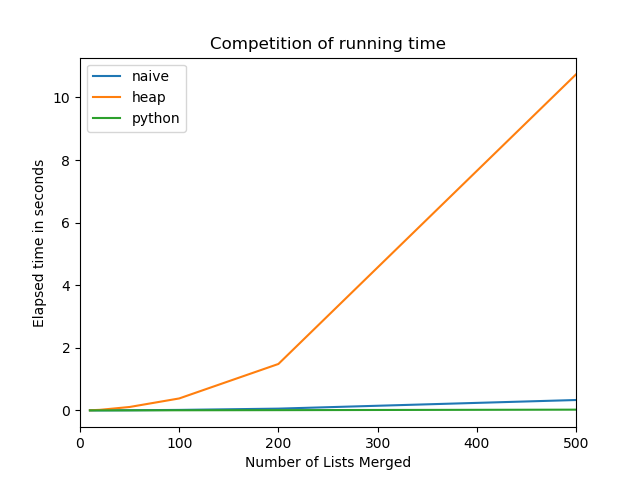
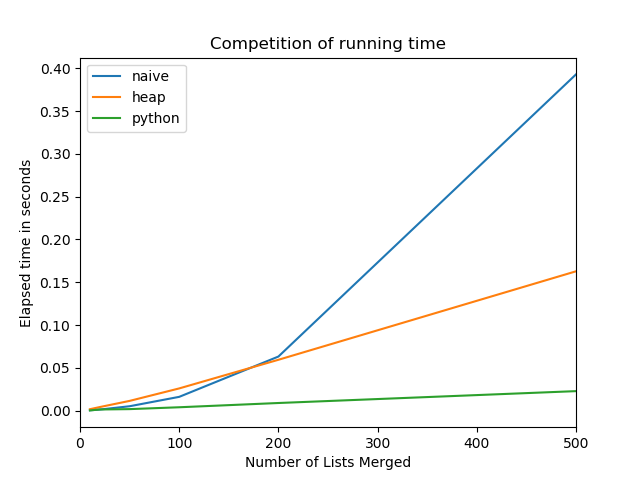
I emailed the homework changes to David two hours after the deadline (2am), and got approved just now to push it to course repo.

diff --git a/homeworks/HW6/HW6-final/P2.py b/homeworks/HW6/HW6-final/P2.py
@@ -60,16 +60,14 @@ class Heap:
         min_idx = idx
         left_idx = 2 * idx + 1
         right_idx = 2 * idx + 2
-
         if left_idx < self.size and self.compare(min_idx, left_idx):
             min_idx = left_idx
-
         if right_idx < self.size and self.compare(min_idx, right_idx):
             min_idx = right_idx
-
         if min_idx != idx:
             self.swap(idx,min_idx)
             self.heapify(min_idx)
+
 
     def build_heap(self) -> None:
         for i in range(self.size // 2, -1, -1):
@@ -78,17 +76,42 @@ class Heap:
     def heappush(self, key: int) -> None:
         self.size += 1
         self.elements += [key]
-        self.build_heap()
+        self.pushhelper(self.size-1)
+
+    def pushhelper(self, idx: int) -> None:
+      if idx > 0:
+          parent = self.parent(idx)
+          if self.compare(parent , idx):
+              self.swap(parent, idx)
+              self.pushhelper(parent)
 
     def heappop(self) -> int:
         if (len(self.elements) == 0):
             raise IndexError("Nothing to pop")
         smallest = self.elements[0]
-        #self.elements = self.elements[1 : self.size]
-        self.elements.remove(smallest)
+        self.swap(0, self.size - 1)
+        self.elements.pop()
         self.size -= 1
-        self.build_heap()
+        if self.size > 0:
+            self.pophelper(0)
         return smallest
+
+    def pophelper(self, idx: int) -> None:
+      left = self.left(idx)
+      right = self.right(idx)
+      if left < self.size:
+        if right < self.size:
+          if self.compare(right, left):
+            if self.compare(idx,left):
+              self.swap(left, idx)
+              self.pophelper(left)
+          else:
+            if self.compare(idx,left):
+              self.swap(right, idx)
+              self.pophelper(right)
+        else:
+          if self.compare(idx, left):
+            self.swap(left, idx)
 
 class MinHeap(Heap):
     def compare(self, a: int, b: int):
@@ -116,5 +139,4 @@ print(mn)
 
 h = MinHeap([-1,0,0,15,23,1,2,3])
 print(h)
-
 '''

diff --git a/homeworks/HW6/HW6-final/P3.py b/homeworks/HW6/HW6-final/P3.py
@@ -81,26 +81,27 @@ class NaivePriorityQueue(PriorityQueue):
         return smallest
 
 class HeapPriorityQueue(PriorityQueue):
-    def put(self, val):
-        if len(self.elements) > self.max_size:
-            raise IndexError("Priority queue is full.")
-        heapElements = MinHeap(self.elements)
-        heapElements.heappush(val)
-        self.elements = heapElements.elements
+    def __init__(self, max_size):
+        self.elements = MinHeap([])
+        self.max_size = max_size
 
-    def get(self):
+    def put(self, key: int) -> None:
+        if len(self.elements) + 1 > self.max_size:
+            raise IndexError("Priority queue is full.")
+        else:
+            self.elements.heappush(key)
+
+    def get(self) -> int:
         if len(self.elements) == 0:
             raise IndexError("There is nothing to get.")
-        heapElements = MinHeap(self.elements)
-        smallest = heapElements.heappop()
-        self.elements = heapElements.elements
-        return smallest
+        else:
+        	return self.elements.heappop()
 
     def peek(self):
         if len(self.elements) == 0:
             raise IndexError("There is nothing in the list.")
-        return self.elements[0]
-
+        else:
+            return self.elements.elements[0]
 
 class PythonHeapPriorityQueue(PriorityQueue):
     def put(self, val):

diff --git a/homeworks/HW6/HW6-final/P1.py b/homeworks/HW6/HW6-final/P1.py
@@ -137,10 +137,10 @@ class DFSTraversal():
 
     def _inorder(self, node):
         if node:
+            #self._inorder(node.left)
             self._inorder(node.left)
             self.results.append(BSTNode(node.key, node.val))
             self._inorder(node.right)
-            self._inorder(node.left)
 
     def preorder(self, bst: BSTTable):
         self._preorder(bst._root)
@@ -167,12 +167,11 @@ input_array = [(4, 'a'), (9, 'c'), (2, 'f'), (3, 'z'), (11, 'i'), (8, 'r')]
 bst = BSTTable()
 for key, val in input_array:
     bst.put(key, val)
-traversal = DFSTraversal(bst, DFSTraversalTypes.PREORDER)
+traversal = DFSTraversal(bst, DFSTraversalTypes.INORDER)
 for node in traversal:
     print(node.key, ', ', node.val)
-'''
 
-'''
+
 t = BSTTable()
 t.put(5, 'a')
 t.put(15, 'a')
@@ -184,10 +183,9 @@ t.put(-5, 'b')
 print(t._root)
 print(t.remove(35))
 print(t._root)
-'''
 
 
-'''
+
 t = BSTTable()
 t.put(5, 'a')
 #t.put(1, 'b')
@@ -196,10 +194,10 @@ t.put(5, 'a')
 #print(t._root)
 #print(t._removemin(t._root))
 print(t.remove(10))
-'''
 
 
-'''
+
+
 t = BSTTable()
 t.put(5, 'a')
 t.put(1, 'b')
